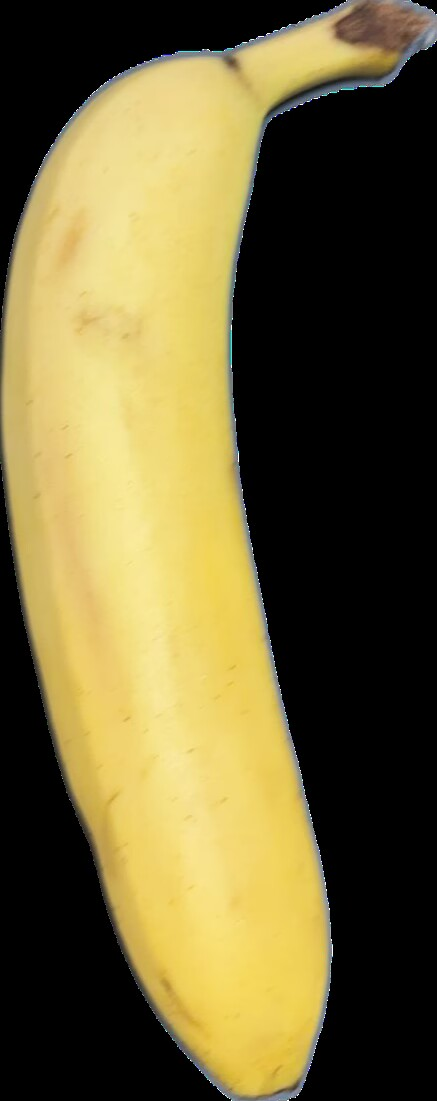
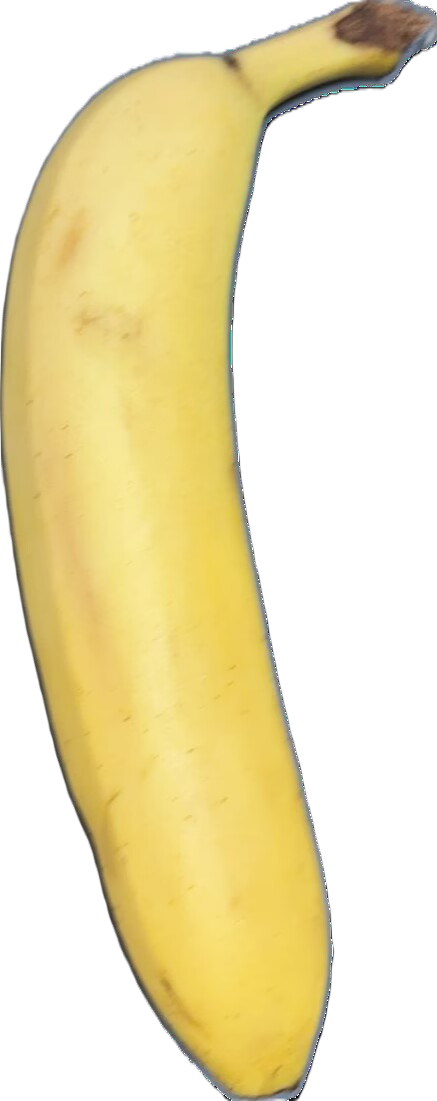
Update banana image, add ribbon.png, fix APOD background loader
- Replace banana with background-removed version
- Replace CSS ribbon with ribbon.png image
- Switch APOD loader to scrape astropix.html via CORS proxy

diff --git a/index.html b/index.html
@@ -18,7 +18,6 @@
       justify-content: center;
       overflow: hidden;
       background: #000;
-      font-family: Georgia, serif;
     }
 
     /* ── NASA APOD Background ── */
@@ -30,7 +29,7 @@
       object-fit: cover;
       z-index: 0;
       opacity: 0;
-      transition: opacity 1.2s ease;
+      transition: opacity 1.4s ease;
     }
     #apod-bg.loaded { opacity: 1; }
 
@@ -41,13 +40,11 @@
       display: inline-block;
       cursor: pointer;
       user-select: none;
-      /* smooth spin start */
-      animation-play-state: paused;
+      width: 260px;
     }
 
     .banana-wrap.spinning {
       animation: clockwise 4s linear infinite;
-      animation-play-state: running;
     }
 
     @keyframes clockwise {
@@ -57,58 +54,19 @@
 
     .banana-img {
       display: block;
-      width: 260px;
-      filter: drop-shadow(0 0 24px rgba(255, 230, 80, 0.55));
+      width: 100%;
+      filter: drop-shadow(0 0 28px rgba(255, 230, 80, 0.5));
       pointer-events: none;
     }
 
-    /* ── Blue sash ribbon ── */
-    .ribbon {
+    /* ── Ribbon image ── */
+    .ribbon-img {
       position: absolute;
       top: 46%;
       left: 50%;
-      transform: translate(-50%, -50%) rotate(-32deg);
-      background: #1554b8;
-      color: #fff;
-      font-size: 1rem;
-      font-weight: bold;
-      letter-spacing: 0.18em;
-      text-transform: uppercase;
-      padding: 9px 0;
-      width: 340px;
-      text-align: center;
-      box-shadow: 0 3px 14px rgba(0,0,0,0.55);
-      border-top:    2px solid rgba(255,255,255,0.35);
-      border-bottom: 2px solid rgba(255,255,255,0.35);
+      transform: translate(-50%, -50%);
+      width: 130%;
       pointer-events: none;
-      /* notched ends via clip-path */
-      clip-path: polygon(
-        0% 0%,
-        calc(100% - 0px) 0%,
-        100% 50%,
-        calc(100% - 0px) 100%,
-        0% 100%,
-        0px 50%
-      );
-    }
-
-    /* pointed ribbon ends */
-    .ribbon::before,
-    .ribbon::after {
-      content: '';
-      position: absolute;
-      top: 0;
-      border-style: solid;
-      border-color: transparent;
-      border-width: 19px 13px;
-    }
-    .ribbon::before {
-      left: -26px;
-      border-right-color: #1554b8;
-    }
-    .ribbon::after {
-      right: -26px;
-      border-left-color: #1554b8;
     }
 
     /* ── APOD credit ── */
@@ -137,41 +95,64 @@
 
   <div class="banana-wrap" id="banana" onclick="toggleSpin(this)">
     <img class="banana-img" src="banana.png" alt="Banana" />
-    <div class="ribbon">Push&nbsp;me</div>
+    <img class="ribbon-img" src="ribbon.png" alt="Push me ribbon" />
   </div>
 
   <div id="apod-credit"></div>
 
   <script>
-    /* ── Load NASA APOD background ── */
+    /* ── Load NASA APOD by scraping the page via CORS proxy ── */
     async function loadAPOD() {
       const bg     = document.getElementById('apod-bg');
       const credit = document.getElementById('apod-credit');
 
       try {
-        const res  = await fetch('https://api.nasa.gov/planetary/apod?api_key=DEMO_KEY');
+        const proxyUrl = 'https://api.allorigins.win/get?url=' +
+          encodeURIComponent('https://apod.nasa.gov/apod/astropix.html');
+
+        const res  = await fetch(proxyUrl);
         const data = await res.json();
 
-        if (data.media_type === 'image') {
-          bg.onload = () => bg.classList.add('loaded');
-          bg.src = data.hdurl || data.url;
-          credit.innerHTML =
-            `<a href="https://apod.nasa.gov/apod/astropix.html" target="_blank" rel="noopener">
-               NASA APOD
-             </a>: ${data.title}`;
-        } else {
-          /* APOD is a video today — use thumbnail if available */
-          if (data.thumbnail_url) {
-            bg.onload = () => bg.classList.add('loaded');
-            bg.src = data.thumbnail_url;
-          } else {
-            fallbackBg();
+        // Parse the returned HTML
+        const parser = new DOMParser();
+        const doc    = parser.parseFromString(data.contents, 'text/html');
+
+        // APOD always has the main image inside an <a href="image/...jpg">
+        let imgUrl = null;
+        const anchors = doc.querySelectorAll('a[href]');
+        for (const a of anchors) {
+          if (a.getAttribute('href').match(/image\/.*\.jpg$/i)) {
+            imgUrl = 'https://apod.nasa.gov/apod/' + a.getAttribute('href');
+            break;
           }
+        }
+
+        // Fallback: look for any <img src="image/...jpg">
+        if (!imgUrl) {
+          const imgs = doc.querySelectorAll('img[src]');
+          for (const img of imgs) {
+            if (img.getAttribute('src').match(/image\/.*\.jpg$/i)) {
+              imgUrl = 'https://apod.nasa.gov/apod/' + img.getAttribute('src');
+              break;
+            }
+          }
+        }
+
+        if (imgUrl) {
+          bg.onload = () => bg.classList.add('loaded');
+          bg.src = imgUrl;
+
+          // Grab the page title for credit
+          const titleEl = doc.querySelector('title');
+          const titleText = titleEl ? titleEl.textContent.trim() : 'Astronomy Picture of the Day';
           credit.innerHTML =
             `<a href="https://apod.nasa.gov/apod/astropix.html" target="_blank" rel="noopener">
                NASA APOD
-             </a>: ${data.title}`;
+             </a>: ${titleText}`;
+        } else {
+          fallbackBg();
         }
+
       } catch (err) {
         console.warn('Could not load APOD:', err);
         fallbackBg();
